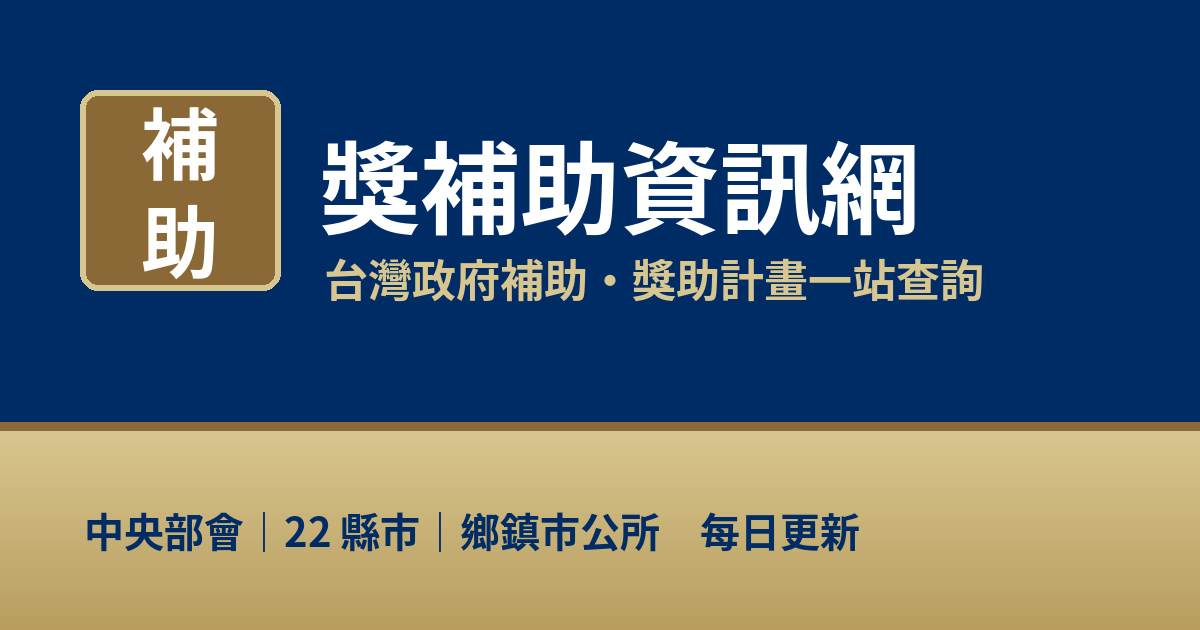
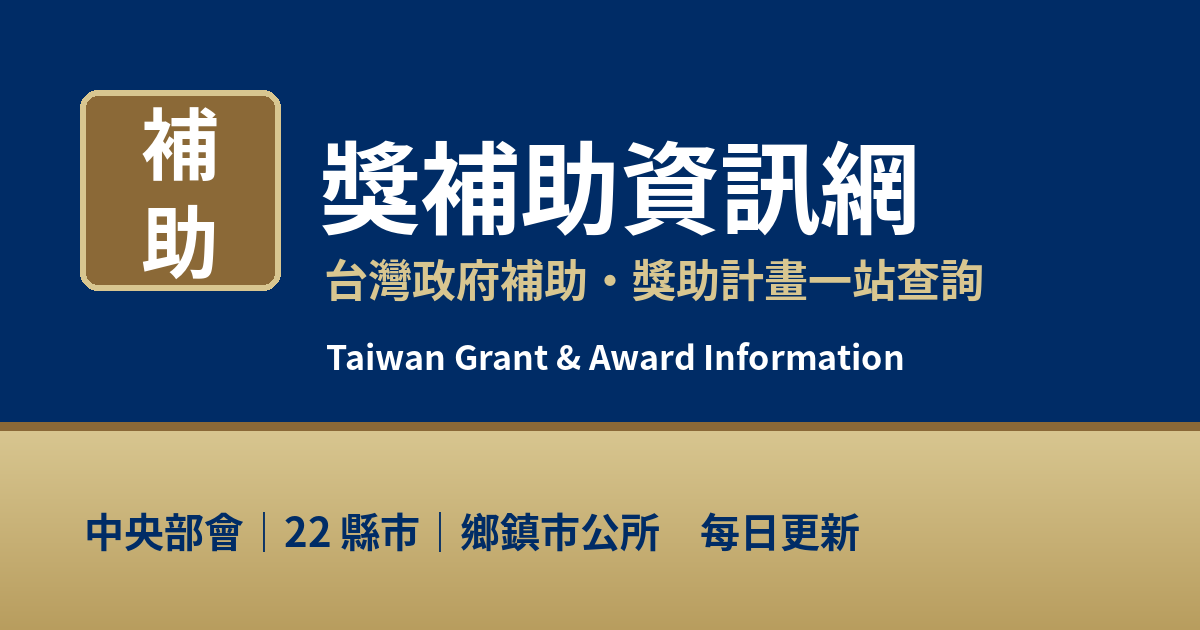
獎補助資訊網：英文名 Taiwan Grant & Award Information

Changed region(s): [[0.2775, 0.5429, 0.7708, 0.6032]]

diff --git a/themes/grantking/gk.css b/themes/grantking/gk.css
@@ -35,3 +35,4 @@ h2{color:#002c66;font-size:20px;margin:0 0 12px;padding-bottom:6px;border-bottom
 .foot b{color:#fff;display:block;margin-bottom:6px}.foot a{color:#d8c690;display:block}.foot .copy{border-top:1px solid rgba(255,255,255,.15);padding:12px 20px;font-size:13px}
 @media(max-width:860px){.mast>.in{flex-direction:column;align-items:stretch}.adbox{order:2}.logo b{font-size:22px}.menu .in{overflow-x:auto;flex-wrap:nowrap}.menu a{white-space:nowrap}
 .kpi{grid-template-columns:1fr 1fr}.two{grid-template-columns:1fr}.m-hide{display:none}.foot .cols{grid-template-columns:1fr}.util .in{flex-direction:column}h1{font-size:22px}}
+.logo small{letter-spacing:.12em}.foot small.en{display:block;color:#d8c690;letter-spacing:.08em;margin:-4px 0 6px}
